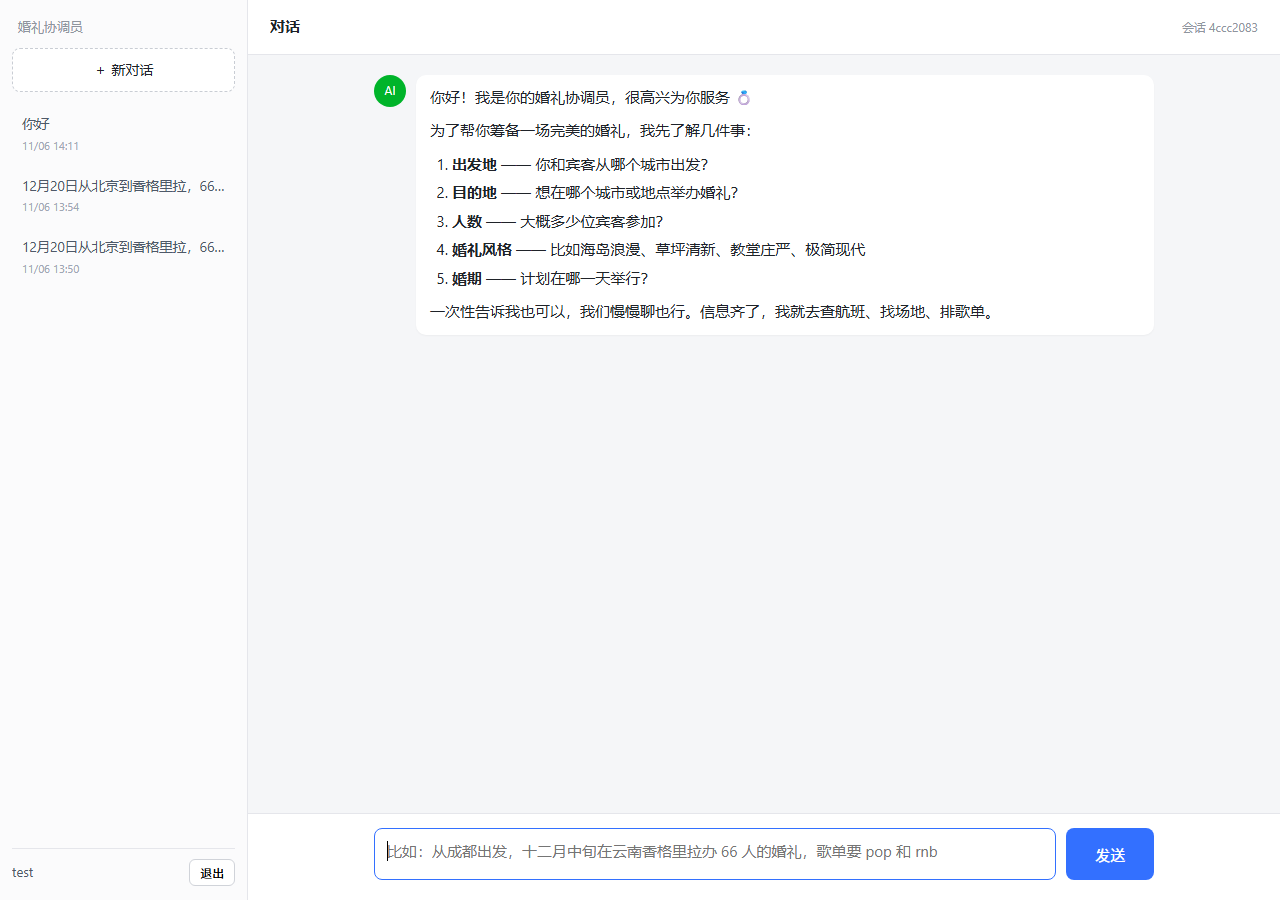
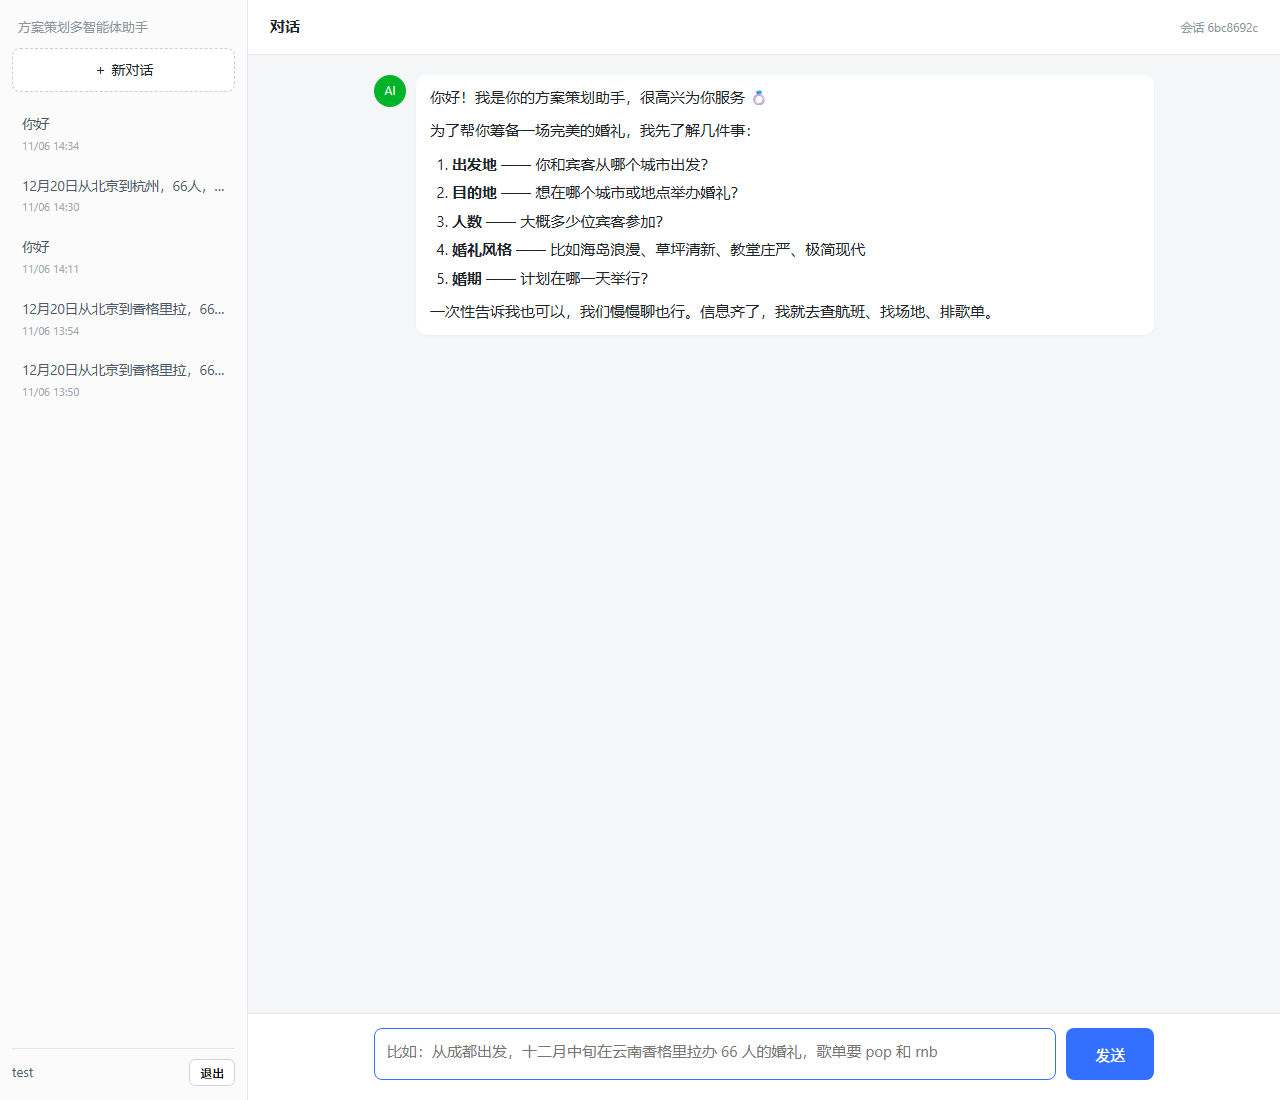
更新界面截图与站点名称

diff --git a/README.md b/README.md
@@ -1,6 +1,6 @@
-# 多智能体
+# 方案策划多智能体助手
 
-一个基于多智能体的婚礼策划助手。用户说清楚城市、目的地、人数、风格和婚期，它会分头查航班、找场地、挑歌单，最后拼成一套完整方案。
+一个基于多智能体的方案策划助手，以婚礼场景为例。用户说清楚城市、目的地、人数、风格和婚期，它会分头查航班、找场地、挑歌单，最后拼成一套完整方案。
 
 在线演示：https://agent.langxo.com
 (test/test)
